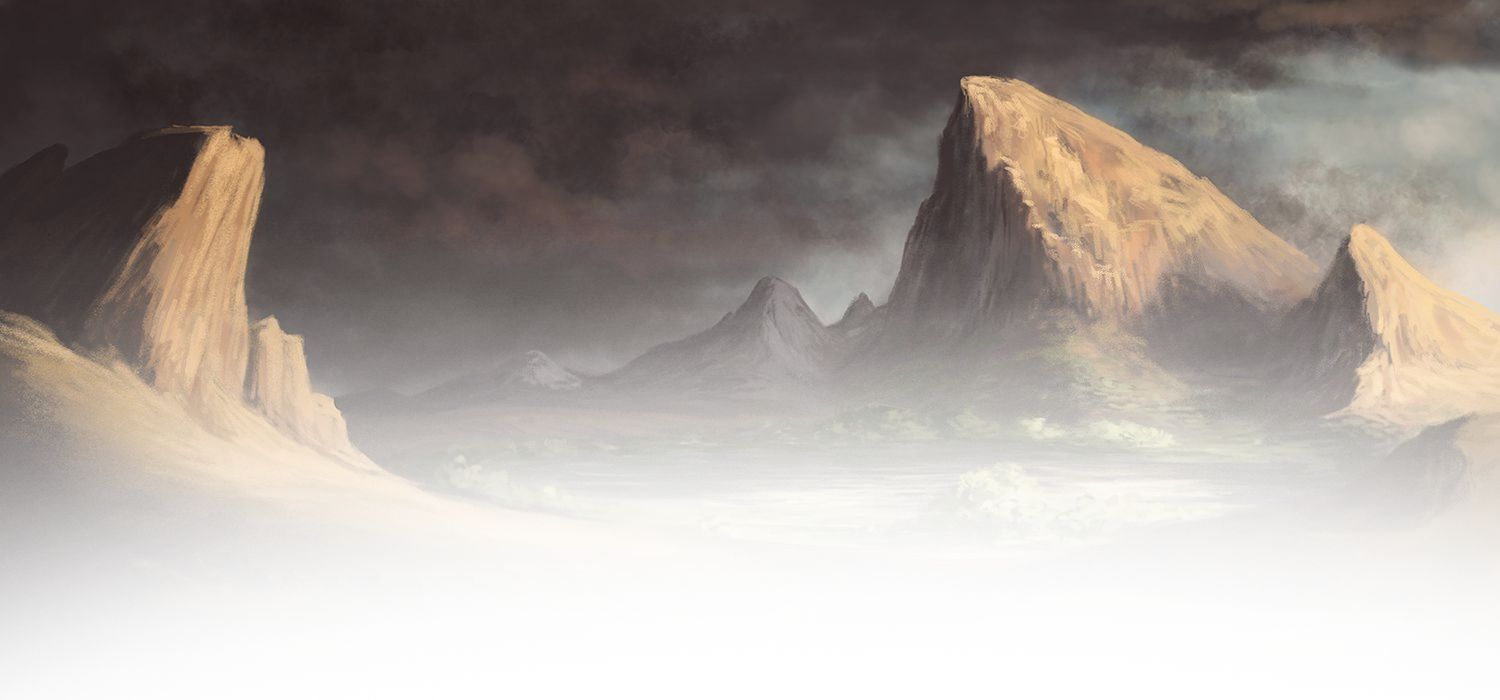
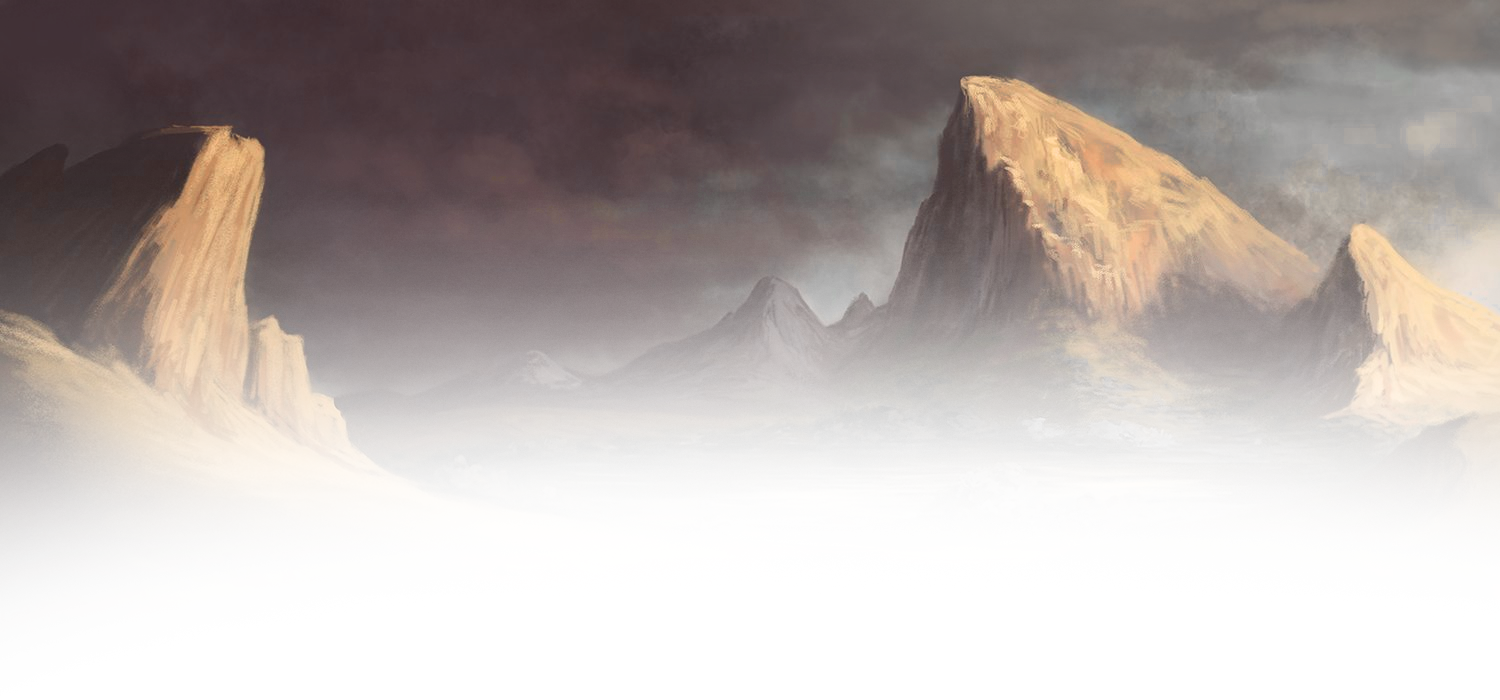
Theme Customization
Customing all elements of theme

Changed region(s): [[0.0, 0.3, 1.0, 0.9], [0.552, 0.0, 1.0, 0.15]]

diff --git a/assets/scss/_variables.scss b/assets/scss/_variables.scss
@@ -4,21 +4,33 @@
 // ---------------------------
 // Main backgrounds
 // ---------------------------
-$main-header-background-image: url('/mesa-pattern.svg');
-$main-header-background-height: 80px;
-$main-header-background-opacity: 1;
-$main-body-background-image: url('https://64.media.tumblr.com/4c8355d59c65b581d10ad91ca789c414/tumblr_p2pap0zxSq1w0sodmo3_1280.jpg');
-$main-body-background-size: 400px;
-$main-body-background-opacity: 0.1;
+$main-header-background-image: url('/mountains-header-transparent.png');
+$main-header-background-height: 400px;
+$main-header-background-opacity: 0.4;
+$main-body-background-image: url('/map.png');
+$main-body-background-size: 500px;
+$main-body-background-opacity: 0.05;
+$layout-main-content-top-margin: 0.5rem;
 // ---------------------------
 // Fonts
 // ---------------------------
 $base-font-size: 18px;
 $base-font-family: 'Crimson Text', Georgia, 'Times New Roman', serif;
 @import url('https://fonts.googleapis.com/css2?family=Crimson+Text:ital,wght@0,400;0,700;1,400&display=swap');
+@import url('https://fonts.googleapis.com/css2?family=Amarante&display=swap');
 @import url('https://fonts.googleapis.com/css2?family=Rock+Salt&display=swap');
+
+@font-face {
+  font-family: 'Rabiul';
+  font-style: normal;
+  font-weight: normal;
+  src: url('/Rabiul Free Trial.ttf') format('truetype');
+}
+
 // Brand/Title font (most distinctive)
-$font-brand: 'Rock Salt', cursive;
+$font-brand: 'Rabiul', cursive;
+
+$brand-size-xl: clamp(60px, 14vw, 75px);
 // Heading font (structural hierarchy)
 $font-heading: 'Crimson Text', Georgia, 'Times New Roman', serif;
 $font-bold: 700;
@@ -48,27 +60,38 @@ $heading-weight: $font-bold;
 // ---------------------------
 // Layout
 // ---------------------------
-$layout-main-content-top-margin: 5rem;
 $layout-header-bg-image: $main-header-background-image;
 $layout-header-bg-height: $main-header-background-height;
 $layout-header-bg-opacity: $main-header-background-opacity;
 $layout-body-bg-image: $main-body-background-image;
 $layout-body-bg-size: $main-body-background-size;
 $layout-body-bg-opacity: $main-body-background-opacity;
+$layout-side-image: url('/side-message.png');
+$layout-side-opacity: 0.1;
+$layout-side-width: 30px;
+$layout-side-graphic-z: 5;
+$layout-side-repeat: repeat;
+$layout-side-size: 27px;
+$layout-side-graphic-top-margin: 300px;
+$layout-side-graphic-top-height: auto;
+$layout-side-graphic-min-height: 100% !default;
+
 // ---------------------------
 // Home-header
 // ---------------------------
 $home-header-circle-bg: #ff000000;
-$home-header-circle-image: url('/mountain_placeholder3.png');
-$home-header-circle-opacity: 0.1;
+$home-header-circle-image: url('/circle.png');
+$home-header-circle-opacity: 0.085;
 $home-header-circle-size: 23rem;
 $home-header-circle-margin: ($home-header-circle-size * 0.33);
-$home-header-title-font-family: 'Arial';
-$home-header-subtitle-font-size: 22px;
+$home-header-title-font-family: $font-brand;
+$home-header-title-letter-spacing: -3px;
+$home-header-subtitle-font-size: clamp(20px, 3vw, $font-xl);
 $home-header-subtitle-font-family: 'Arial';
+$home-header-title-word-break: keep-all;
+$home-header-title-white-space: nowrap;
 // ---------------------------
 // Pagefind UI (enablePagefindCSS = TRUE)
 // ---------------------------
 $small-tile-transition-bg: 0.3s ease;
-
-$pagefind-ui-scale: 0.8;
+$layout-header-before-opacity: 0;

diff --git a/assets/scss/_custom.scss b/assets/scss/_custom.scss
@@ -1,5 +1,23 @@
 body {
-  background-color: #f9f4ee;
+  background-color: #f7eee7;
+}
+
+.home__about-us {
+  background-color: #fffaf5;
+  border-color: #e6dfdb;
+  border-radius: 4px;
+  border-style: solid;
+  border-width: 1px;
+  padding: 0.5rem;
+  text-align: left;
+
+  p {
+    margin: 0.5rem 0;
+  }
+}
+
+.home-header__subtitle {
+  margin-top: -10px;
 }
 
 .pagefind-ui__result {
@@ -23,7 +41,7 @@ body {
 }
 
 .layout__navbar {
-  background-color: #f9f4ef !important;
+  background-color: #fffaf5 !important;
   border-right: 1px solid #afafaf7f !important;
   border-top: 1px solid #afafaf7f !important;
 }
@@ -125,4 +143,8 @@ body {
     min-width: unset !important;
     width: 100% !important;
   }
+}
+
+.special-text {
+  color: #c47c6d !important;
 }

diff --git a/layouts/_partials/big-tile/big-tile-event.html b/layouts/_partials/big-tile/big-tile-event.html
@@ -10,7 +10,7 @@
         <p class="big-tile__excerpt">
           {{- .page.Summary | plainify | truncate .truncate -}}
         </p>
-        <div class="event-meta">
+        <div class="special-text">
           <span class="event-date"
             >📅 {{ .page.Params.eventDate | default "TBD" }}</span
           >

diff --git a/assets/scss/big-tile/_event.scss b/assets/scss/big-tile/_event.scss
@@ -69,7 +69,7 @@
     margin: 0 0 0.5rem;
   }
 
-  .event-meta {
+  .special-text {
     color: #a6e3ff;
     display: flex;
     font-size: 0.85rem;

diff --git a/content/posts/campaign.md b/content/posts/campaign.md
@@ -4,7 +4,7 @@ categories = ['event', 'campaign']
 date = 2025-02-15T10:00:00-07:00
 eventDate = "11 Oct 2025"
 eventTime = "18:00"
-image = "https://cdnb.artstation.com/p/assets/images/images/040/037/879/large/erskine-designs-64232y.jpg?1627659704" 
+image = "https://cdnb.artstation.com/p/assets/images/images/083/204/791/large/evgeny-s-01.jpg?1735143614" 
 +++
 
 The Sand King campaign was supposed to be a straightforward desert adventure. Our GM, Rachel, had spent weeks crafting an Arabian Nights-inspired setting where players would explore ancient tombs, navigate political intrigue in the jeweled city of Qadesh, and eventually face down Ankh-Tawy, the titular Sand King—an ancient pharaoh-lich who controlled the desert storms and commanded legions of mummified soldiers.

diff --git a/content/posts/introduction.md b/content/posts/introduction.md
@@ -2,7 +2,7 @@
 title = 'The Wastes'
 date = 2025-05-15T10:00:00-07:00
 categories = ['article']
-image = "https://scadconnector.com/wp-content/uploads/2019/03/Ober-J-19WIN-ILLU735-Burns-A01-DesertOasis_WEB-1024x478@2x.jpg"
+image = "https://cdnb.artstation.com/p/assets/images/images/017/596/717/large/arthur-haas-desert-small.jpg?1556631981"
 +++
 
 **Rolling Dice and Weaving Stories: A Night Around the Table**

diff --git a/content/rules/how to play/index.md b/content/rules/how to play/index.md
@@ -2,7 +2,7 @@
 weight = 15
 categories = ['article']
 title = "How to play"
-image = "https://i.etsystatic.com/21751199/r/il/ce0fe5/5625614118/il_570xN.5625614118_9fm9.jpg"
+image = "https://cdna.artstation.com/p/assets/images/images/002/490/586/large/ryan-groskamp-tesiv-5-prog.jpg?1462370228"
 +++
 
 ## What is dungeon world?
